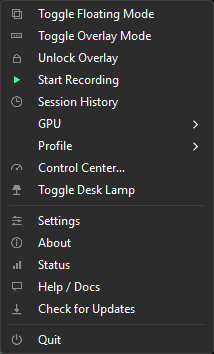
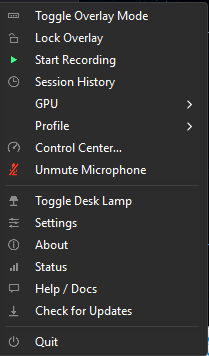
docs(tray): retake the tray menu screenshot without Toggle Floating Mode
The owner's screenshot of the menu as it is now: no Toggle Floating
Mode, with Unmute Microphone and Toggle Desk Lamp. The alt text follows.

Refs #599

diff --git a/website/index.html b/website/index.html
@@ -349,7 +349,7 @@
       <div class="floating-showcase">
         <div class="dual-shots">
           <div class="screen-wrap">
-            <img src="images/tray-menue.png" alt="RIGStats tray menu showing Toggle Floating Mode, Toggle Overlay Mode, Unlock Overlay, Start Recording, Session History, the GPU and Profile submenus, Control Center and Toggle Desk Lamp, and app rows, each with a procedurally-drawn icon" class="hero-img">
+            <img src="images/tray-menue.png" alt="RIGStats tray menu showing Toggle Overlay Mode, Lock Overlay, Start Recording, Session History, the GPU and Profile submenus, Control Center, Unmute Microphone, Toggle Desk Lamp, and app rows, each with a procedurally-drawn icon" class="hero-img">
           </div>
           <div class="screen-wrap">
             <img src="images/tray-menue-recording.png" alt="The same tray menu while a session is recording — a red dot icon next to Stop Recording" class="hero-img">
